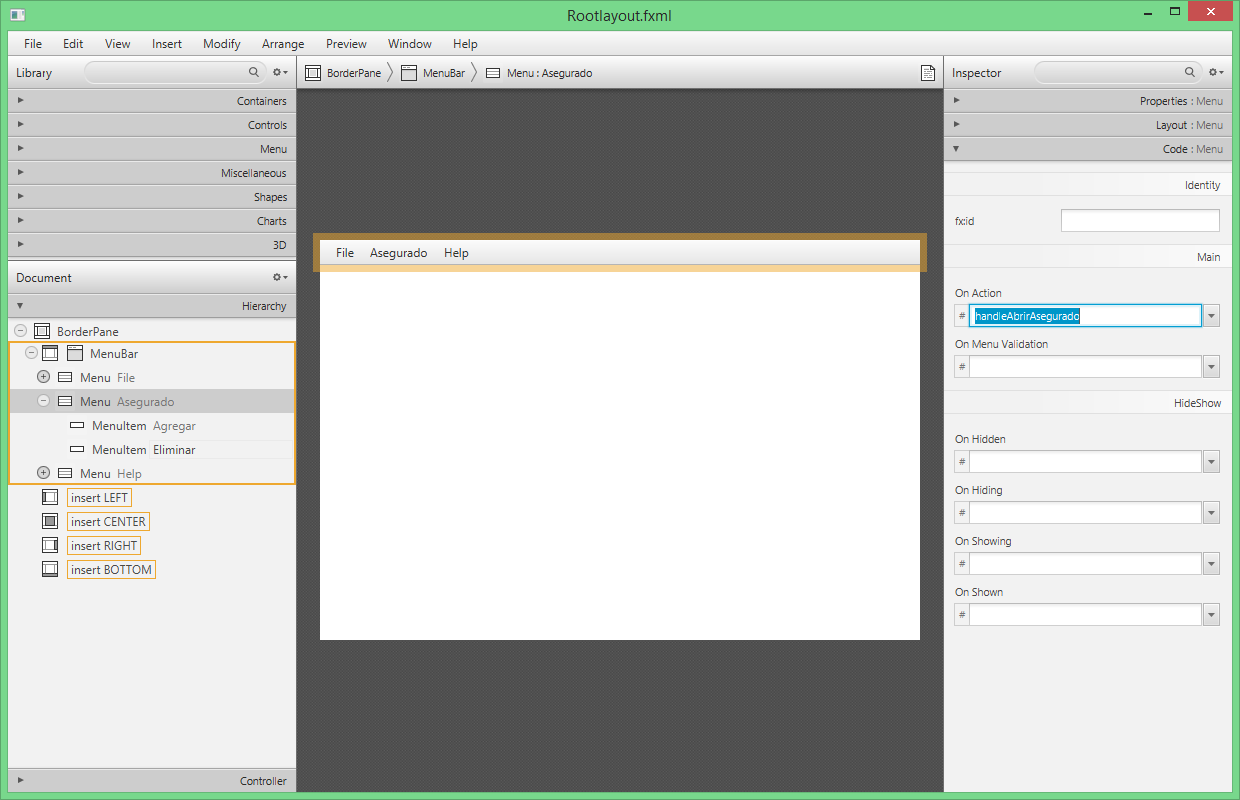
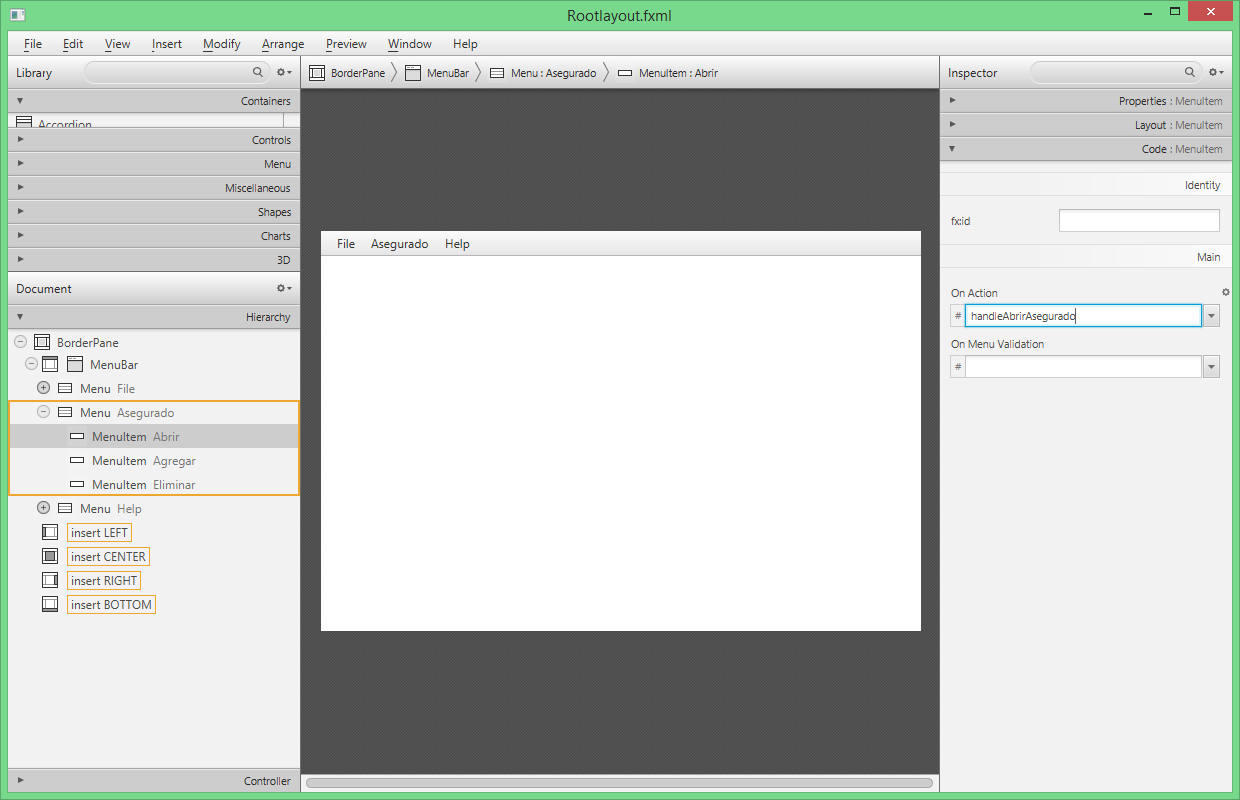
update

diff --git a/Semana10/README.md b/Semana10/README.md
@@ -205,7 +205,7 @@ MainApp.java
 
 ![alt text][22]
 
-* En **hierarchy|BorderPane|Menu|** Cambiamos el nombre de edit por **Asegurado** y anexamos en el submenu **Agregar** y **Eliminar** y en el apartado **Code|Main|On Action** asignamos el metodo **handleAbrirAsegurado**
+* En **hierarchy|BorderPane|Menu|** Cambiamos el nombre de edit por **Asegurado** y anexamos en el submenu **Abrir|Agregar** y **Eliminar** y seleccionamos **Abrir** y en el apartado **Code|Main|On Action** asignamos el metodo **handleAbrirAsegurado**
 
 ![alt text][23]
 
